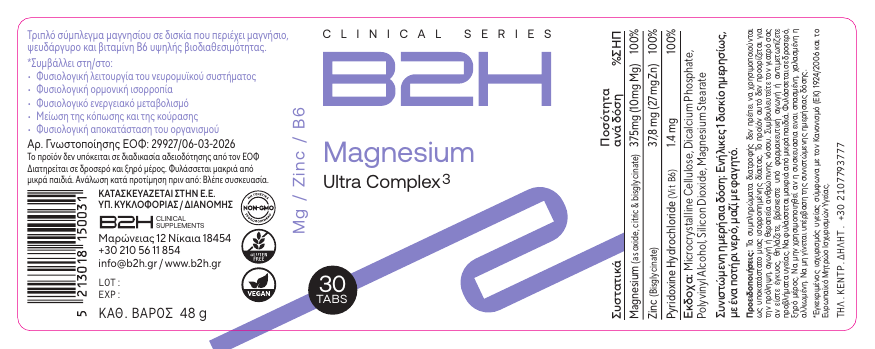
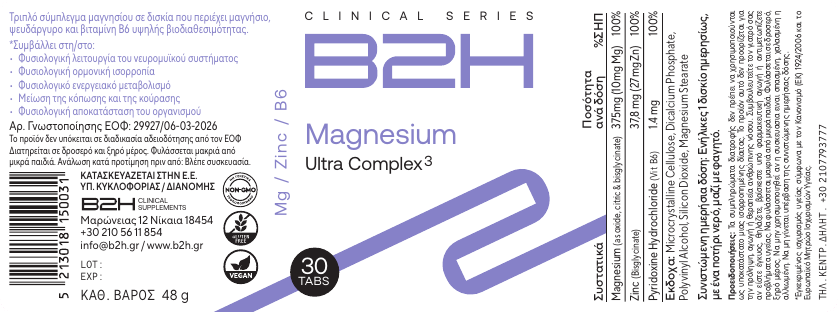
Clip label dielines across product viewers

diff --git a/omega3.html b/omega3.html
@@ -74,7 +74,7 @@
     scene.add(back);
 
     // Label texture — CylinderGeometry has perfect built-in UV wrapping
-    const labelTex = new THREE.TextureLoader().load('label.png');
+    const labelTex = new THREE.TextureLoader().load('label.png?v=20260727d');
     labelTex.colorSpace = THREE.SRGBColorSpace;
     labelTex.anisotropy = 16;
 
@@ -112,20 +112,20 @@
         const wb   = new THREE.Box3().setFromObject(model);
         const wSize = wb.getSize(new THREE.Vector3());
 
-        // Label band: tune these two numbers to reposition the label
-        const yMin   = wb.min.y + wSize.y * 0.07;  // bottom of label
-        const yMax   = wb.min.y + wSize.y * 0.70;  // top of label
-        const lHeight = yMax - yMin;
-        const lCenterY = (yMin + yMax) / 2;
-
         // Radius: enough clearance to avoid z-fighting with the bottle surface
         const radius = Math.max(wSize.x, wSize.z) / 2 * 1.018;
+        const labelAspect = 142 / 53;
+        const lHeight = (Math.PI * 2 * radius) / labelAspect;
+        const yMin = wb.min.y + wSize.y * 0.07;
+        const lCenterY = yMin + lHeight / 2;
 
         // Open-ended cylinder — Three.js UV: u wraps 0→1 around circumference,
         // v goes 1 at top → 0 at bottom (so flipY=true makes label right-side up)
         const geo = new THREE.CylinderGeometry(radius, radius, lHeight, 128, 1, true);
         const mat = new THREE.MeshStandardMaterial({
           map:       labelTex,
+          transparent: true,
+          alphaTest: 0.02,
           roughness: 0.3,
           metalness: 0.0,
           side:      THREE.FrontSide,

diff --git a/multivitamin.html b/multivitamin.html
@@ -117,7 +117,7 @@
     import { GLTFLoader } from 'three/addons/loaders/GLTFLoader.js';
 
     const MODEL_URL = 'https://wearenextgen.github.io/b2h-viewer/multivitamin_final.glb';
-    const LABEL_URL = 'https://wearenextgen.github.io/b2h-viewer/multivitamin-label.png';
+    const LABEL_URL = './multivitamin-label.png?v=20260727d';
 
     const wrap = document.getElementById('wrap');
     const loading = document.getElementById('loading');
@@ -227,17 +227,18 @@
         const worldBox = new THREE.Box3().setFromObject(model);
         const worldSize = worldBox.getSize(new THREE.Vector3());
 
-        const yMin = worldBox.min.y + worldSize.y * 0.07;
-        const yMax = worldBox.min.y + worldSize.y * 0.7;
-        const labelHeight = yMax - yMin;
-        const labelCenterY = (yMin + yMax) / 2;
         const radius = Math.max(worldSize.x, worldSize.z) / 2 * 1.018;
+        const labelAspect = 142 / 53;
+        const labelHeight = (Math.PI * 2 * radius) / labelAspect;
+        const yMin = worldBox.min.y + worldSize.y * 0.07;
+        const labelCenterY = yMin + labelHeight / 2;
 
         const label = new THREE.Mesh(
           new THREE.CylinderGeometry(radius, radius, labelHeight, 128, 1, true),
           new THREE.MeshStandardMaterial({
             map: labelTexture,
             transparent: true,
+            alphaTest: 0.02,
             roughness: 0.3,
             metalness: 0.0,
             side: THREE.FrontSide

diff --git a/magnesium.html b/magnesium.html
@@ -117,7 +117,7 @@
     import { GLTFLoader } from 'three/addons/loaders/GLTFLoader.js';
 
     const MODEL_URL = 'https://wearenextgen.github.io/b2h-viewer/magnesium_final.glb';
-    const LABEL_URL = 'https://wearenextgen.github.io/b2h-viewer/magnesium-label.png';
+    const LABEL_URL = './magnesium-label.png?v=20260727d';
 
     const wrap = document.getElementById('wrap');
     const loading = document.getElementById('loading');
@@ -229,17 +229,18 @@
         const worldBox = new THREE.Box3().setFromObject(model);
         const worldSize = worldBox.getSize(new THREE.Vector3());
 
-        const yMin = worldBox.min.y + worldSize.y * 0.07;
-        const yMax = worldBox.min.y + worldSize.y * 0.7;
-        const labelHeight = yMax - yMin;
-        const labelCenterY = (yMin + yMax) / 2;
         const radius = Math.max(worldSize.x, worldSize.z) / 2 * 1.018;
+        const labelAspect = 142 / 53;
+        const labelHeight = (Math.PI * 2 * radius) / labelAspect;
+        const yMin = worldBox.min.y + worldSize.y * 0.07;
+        const labelCenterY = yMin + labelHeight / 2;
 
         const label = new THREE.Mesh(
           new THREE.CylinderGeometry(radius, radius, labelHeight, 128, 1, true),
           new THREE.MeshStandardMaterial({
             map: labelTexture,
             transparent: true,
+            alphaTest: 0.02,
             roughness: 0.3,
             metalness: 0.0,
             side: THREE.FrontSide

diff --git a/back2move.html b/back2move.html
@@ -99,7 +99,7 @@
     rim.position.set(0, 3, -5);
     scene.add(rim);
 
-    const labelTexture = new THREE.TextureLoader().load("back2move-label.png?v=20260727c");
+    const labelTexture = new THREE.TextureLoader().load("back2move-label.png?v=20260727d");
     labelTexture.colorSpace = THREE.SRGBColorSpace;
     labelTexture.anisotropy = renderer.capabilities.getMaxAnisotropy();
     labelTexture.wrapS = THREE.RepeatWrapping;
@@ -157,7 +157,8 @@
           3 * (radiusX + radiusZ)
           - Math.sqrt((3 * radiusX + radiusZ) * (radiusX + 3 * radiusZ))
         );
-        const labelArtworkAspect = 1985 / 745;
+        // Use the 163 x 58 mm finished cut size, excluding bleed and dieline.
+        const labelArtworkAspect = 163 / 58;
         const labelHeight = ellipseCircumference / labelArtworkAspect;
         const labelBottom = worldBounds.min.y + worldSize.y * 0.095;
         const labelCenterY = labelBottom + labelHeight / 2;
@@ -165,6 +166,8 @@
         const labelGeometry = new THREE.CylinderGeometry(1, 1, labelHeight, 160, 1, true);
         const labelMaterial = new THREE.MeshStandardMaterial({
           map: labelTexture,
+          transparent: true,
+          alphaTest: 0.02,
           roughness: 0.34,
           metalness: 0,
           side: THREE.FrontSide,

diff --git a/back2balance.html b/back2balance.html
@@ -77,7 +77,7 @@
     scene.add(back);
 
     // Label texture — CylinderGeometry has perfect built-in UV wrapping
-    const labelTex = new THREE.TextureLoader().load('back2balance-label.png?v=20260710e');
+    const labelTex = new THREE.TextureLoader().load('back2balance-label.png?v=20260727d');
     labelTex.colorSpace = THREE.SRGBColorSpace;
     labelTex.anisotropy = 16;
     labelTex.center.set(0.5, 0.5);
@@ -142,6 +142,8 @@
         const geo = new THREE.CylinderGeometry(radius, radius, lHeight, 128, 1, true);
         const mat = new THREE.MeshStandardMaterial({
           map:       labelTex,
+          transparent: true,
+          alphaTest: 0.02,
           roughness: 0.3,
           metalness: 0.0,
           side:      THREE.FrontSide,

diff --git a/back2sleep.html b/back2sleep.html
@@ -77,7 +77,7 @@
     scene.add(back);
 
     // Label texture — CylinderGeometry has perfect built-in UV wrapping
-    const labelTex = new THREE.TextureLoader().load('back2sleep-label.png?v=20260711d');
+    const labelTex = new THREE.TextureLoader().load('back2sleep-label.png?v=20260727d');
     labelTex.colorSpace = THREE.SRGBColorSpace;
     labelTex.anisotropy = 16;
     labelTex.center.set(0.5, 0.5);
@@ -136,6 +136,8 @@
         const geo = new THREE.CylinderGeometry(radius, radius, lHeight, 128, 1, true);
         const mat = new THREE.MeshStandardMaterial({
           map:       labelTex,
+          transparent: true,
+          alphaTest: 0.02,
           roughness: 0.3,
           metalness: 0.0,
           side:      THREE.FrontSide,

diff --git a/d3-k2.html b/d3-k2.html
@@ -77,7 +77,7 @@
     scene.add(back);
 
     // Label texture — CylinderGeometry has perfect built-in UV wrapping
-    const labelTex = new THREE.TextureLoader().load('d3-k2-label.png?v=20260711d');
+    const labelTex = new THREE.TextureLoader().load('d3-k2-label.png?v=20260727d');
     labelTex.colorSpace = THREE.SRGBColorSpace;
     labelTex.anisotropy = 16;
     labelTex.center.set(0.5, 0.5);
@@ -136,6 +136,8 @@
         const geo = new THREE.CylinderGeometry(radius, radius, lHeight, 128, 1, true);
         const mat = new THREE.MeshStandardMaterial({
           map:       labelTex,
+          transparent: true,
+          alphaTest: 0.02,
           roughness: 0.3,
           metalness: 0.0,
           side:      THREE.FrontSide,

diff --git a/d3k2.html b/d3k2.html
@@ -77,7 +77,7 @@
     scene.add(back);
 
     // Label texture — CylinderGeometry has perfect built-in UV wrapping
-    const labelTex = new THREE.TextureLoader().load('d3-k2-label.png?v=20260711d');
+    const labelTex = new THREE.TextureLoader().load('d3-k2-label.png?v=20260727d');
     labelTex.colorSpace = THREE.SRGBColorSpace;
     labelTex.anisotropy = 16;
     labelTex.center.set(0.5, 0.5);
@@ -136,6 +136,8 @@
         const geo = new THREE.CylinderGeometry(radius, radius, lHeight, 128, 1, true);
         const mat = new THREE.MeshStandardMaterial({
           map:       labelTex,
+          transparent: true,
+          alphaTest: 0.02,
           roughness: 0.3,
           metalness: 0.0,
           side:      THREE.FrontSide,
